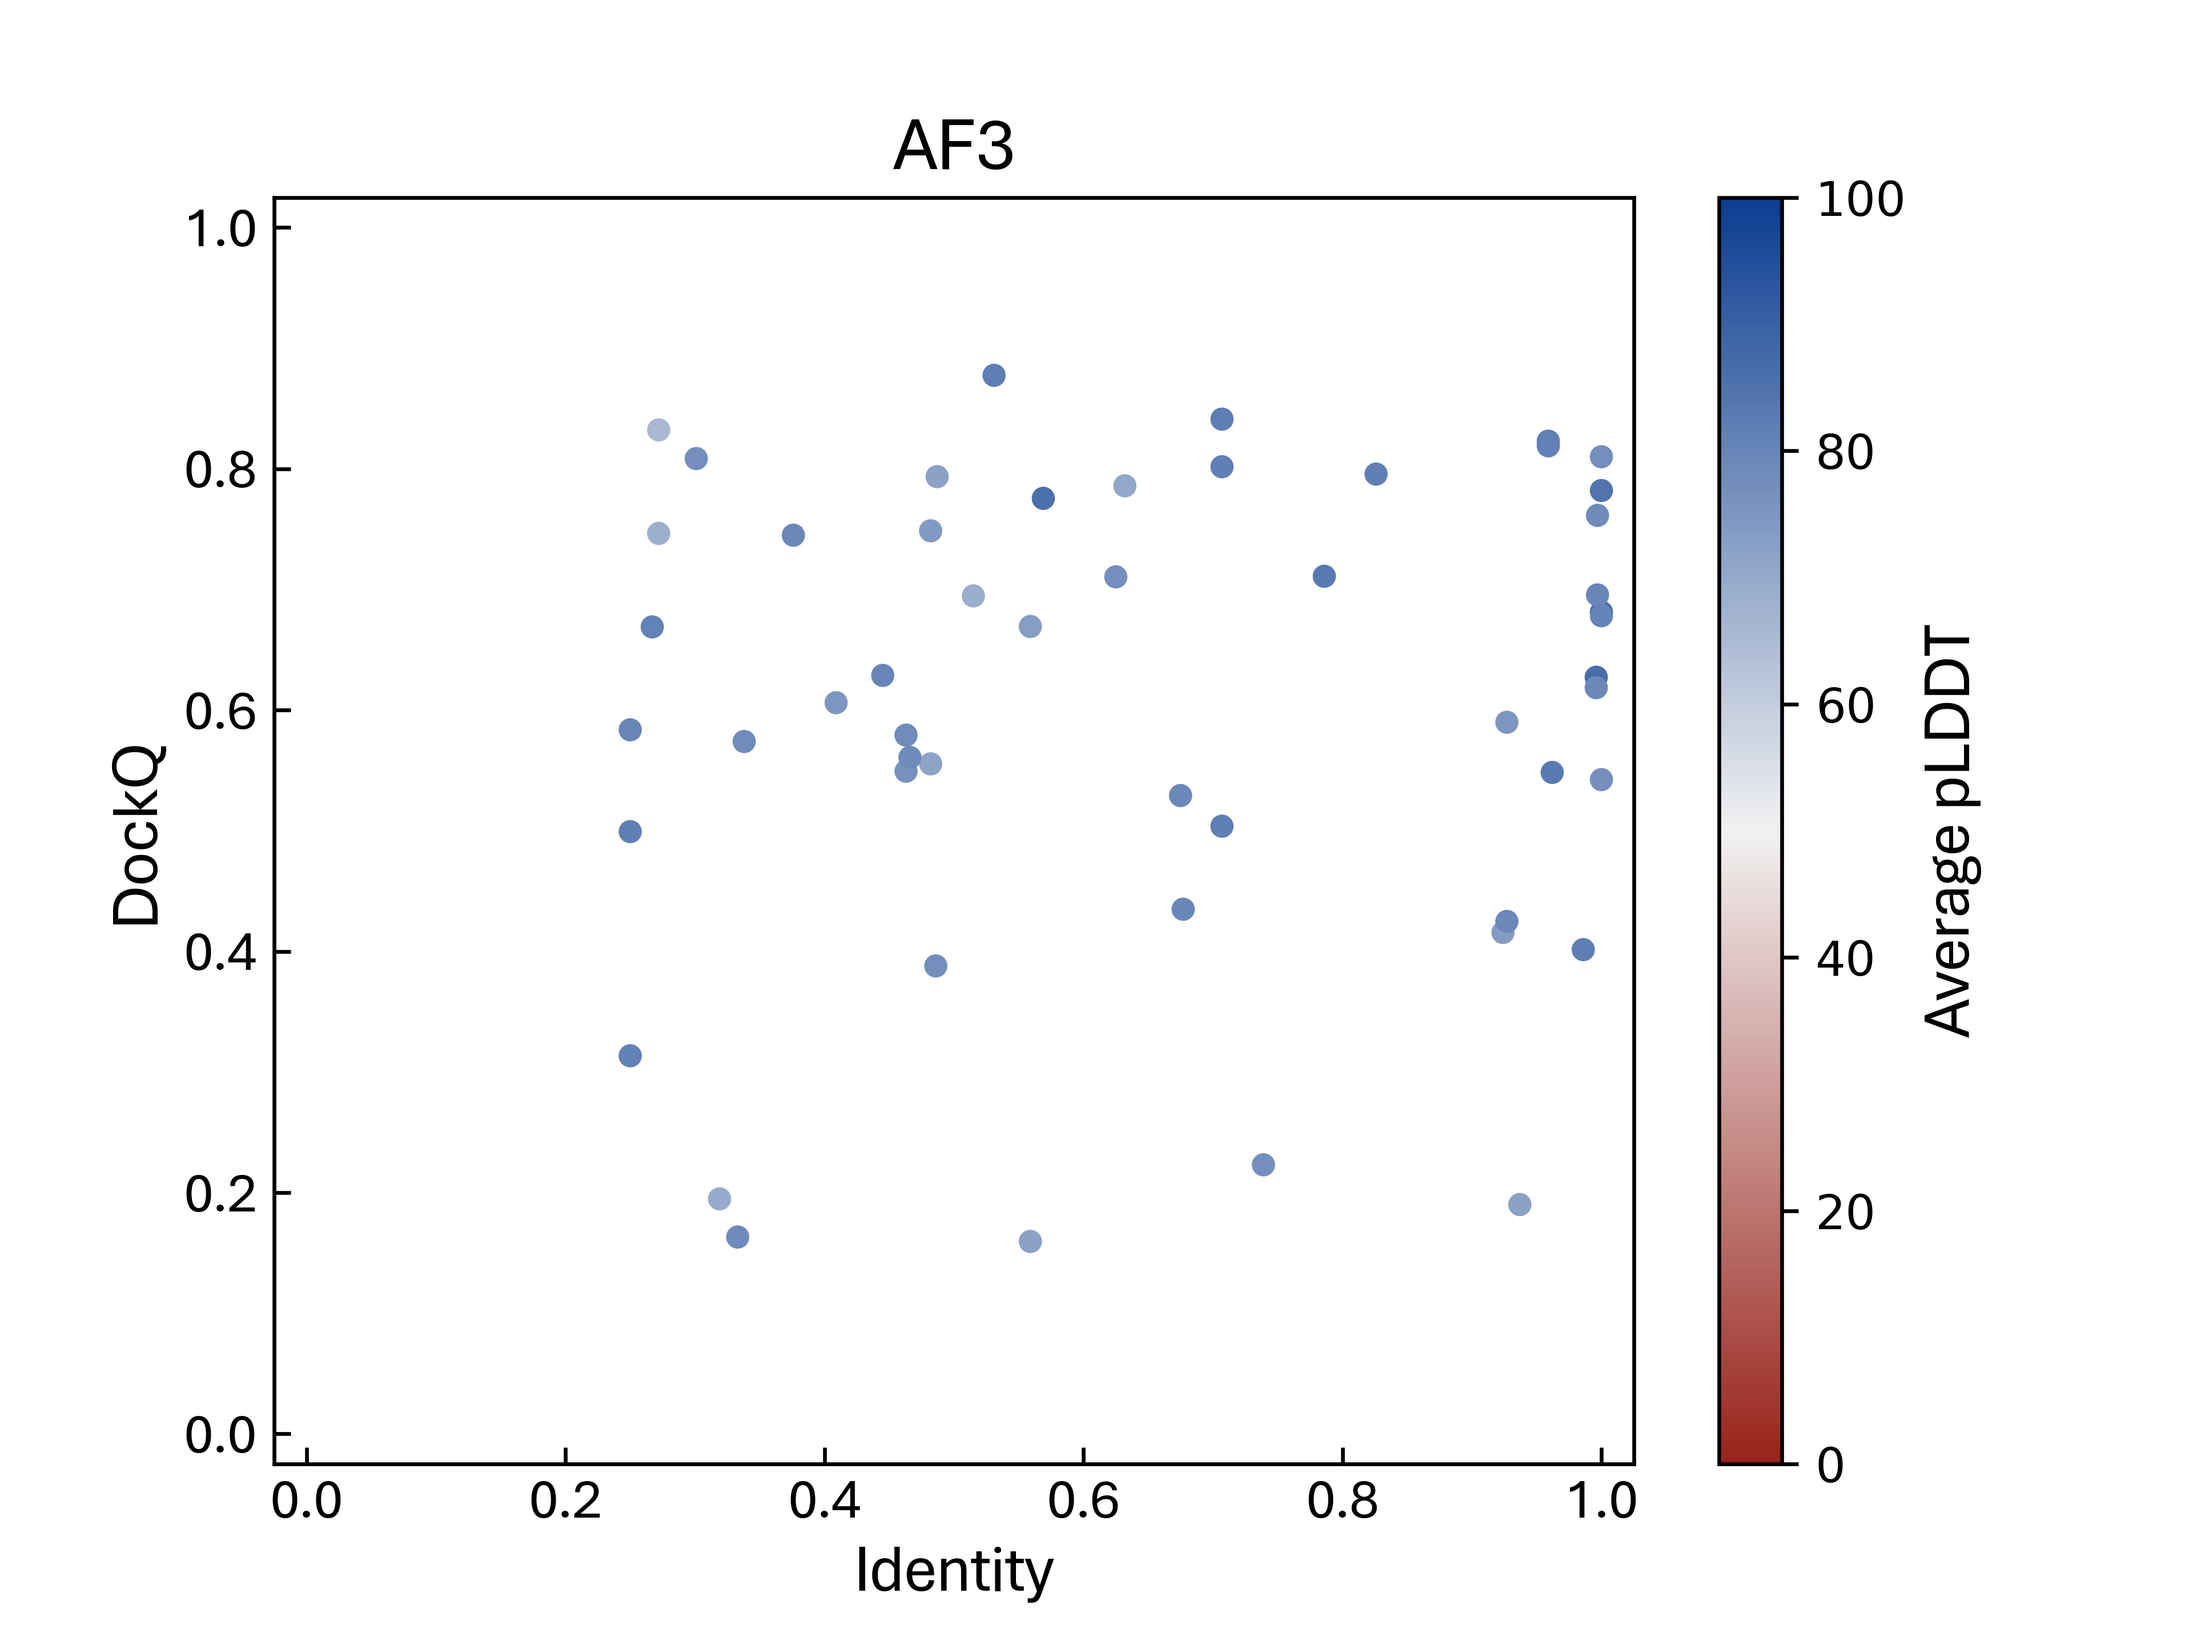
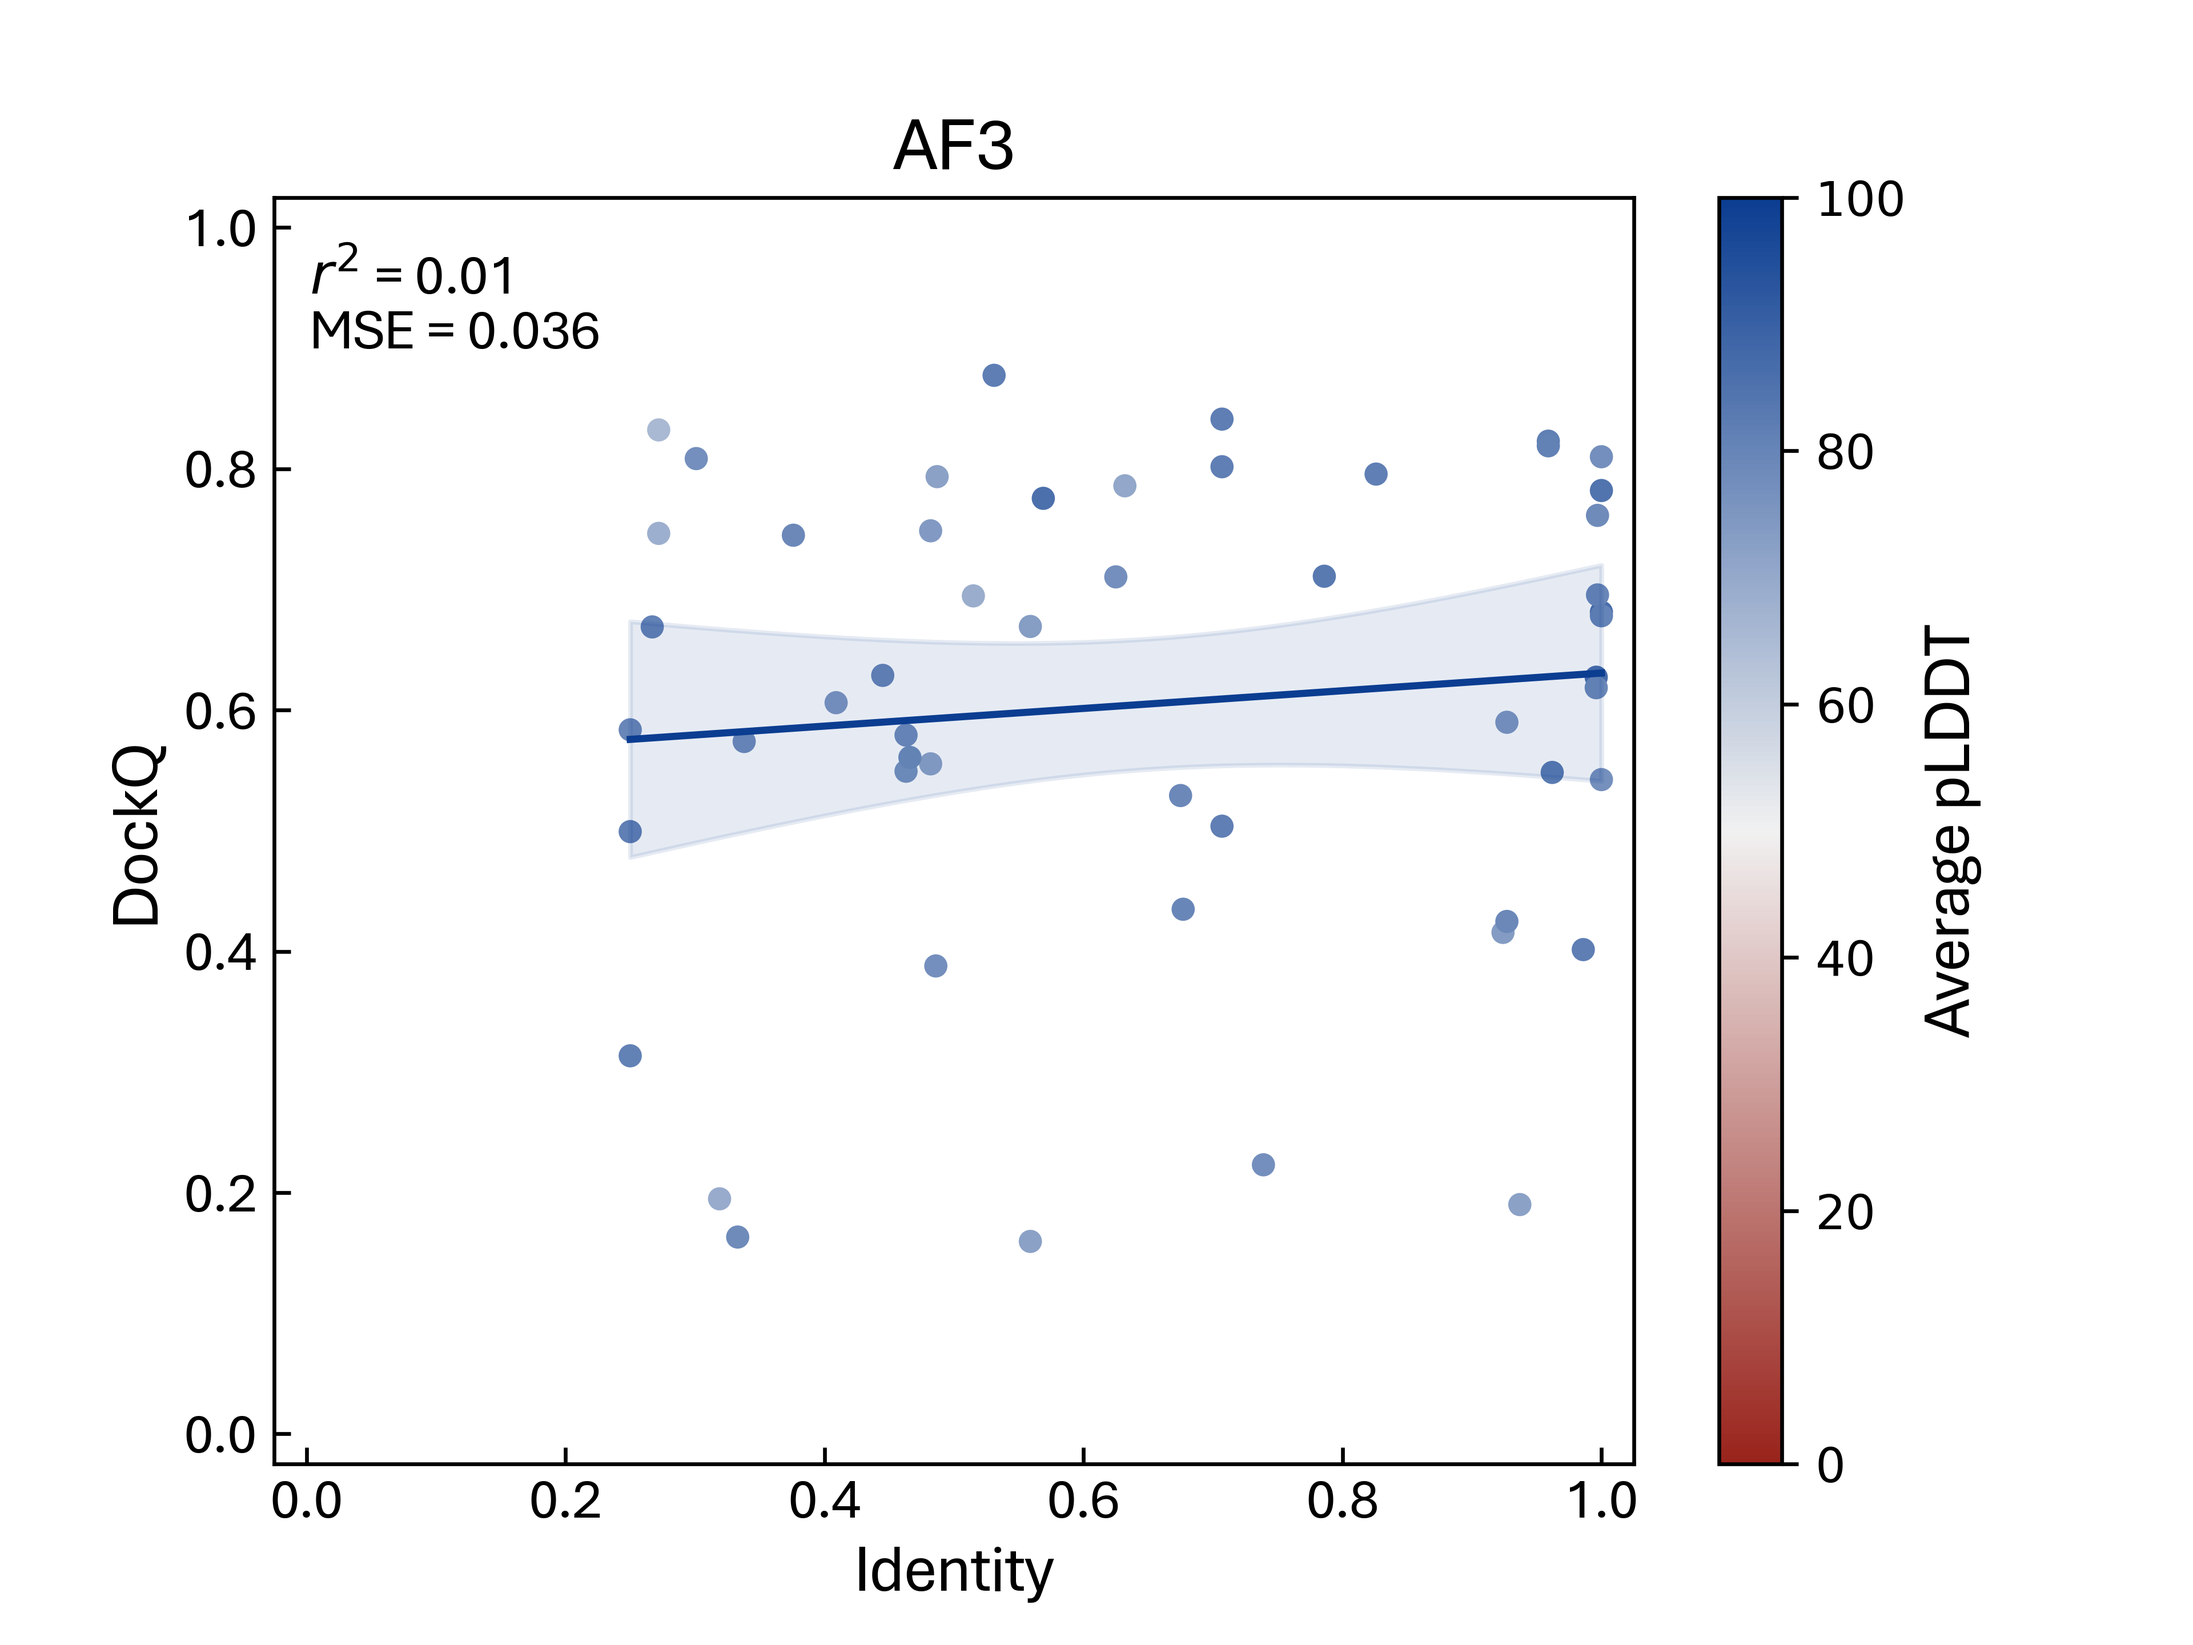
Added confidence intervals to DockQ vs Identity plots

Changed region(s): [[0.2812, 0.3438, 0.75, 0.5312], [0.125, 0.1562, 0.2812, 0.2188]]

diff --git a/structure_benchmark_data/get_mmseqs2_evalue.py b/structure_benchmark_data/get_mmseqs2_evalue.py
@@ -6,6 +6,10 @@ import seaborn as sns
 import matplotlib.font_manager as fm
 import matplotlib.colors as mcolors
 from matplotlib.colors import LinearSegmentedColormap
+from scipy import stats
+import numpy as np
+from sklearn.metrics import r2_score 
+
 
 # Get the top-level directory
 top_level_dir = os.path.abspath(os.path.join(os.path.dirname(__file__), '..'))
@@ -82,13 +86,16 @@ def calculate_average_plddt(pdb_file_path):
         return None
 
 
-def identity_vs_dockq_plot(model, dockq_path, training_struct_df, plot_path="./plots"):
+def identity_vs_dockq_plot(model, dockq_path, training_struct_df, plot_path=""):
     data = pd.read_csv(dockq_path)
     data = data[data['model'] == model]
     data = data.merge(training_struct_df, left_on='pdb', right_on='pdb', how='left')
 
     # Get the top-level directory
     repo_dir = os.path.abspath(os.path.join(os.path.dirname(__file__), '..'))
+
+    if plot_path == "":
+        plot_path = f"{repo_dir}/structure_benchmark_data/plots"
 
     # Get average pLDDT scores for predictions
     for pdb in data['pdb']:
@@ -120,6 +127,26 @@ def identity_vs_dockq_plot(model, dockq_path, training_struct_df, plot_path="./p
     font_path = f'{repo_dir}/Aptos.ttf'  
     font_prop = fm.FontProperties(fname=font_path)
 
+    # Calculate the linear regression line and 95% confidence interval
+    slope, intercept = np.polyfit(data[x], data[y], 1)
+    y_model = np.polyval([slope, intercept], data[x])
+    x_mean = np.mean(data[x])
+    y_mean = np.mean(data[y])
+    n = data[x].size
+    m = 2
+    dof = n - m
+    t = stats.t.ppf(0.975, dof)
+    residual = data[y] - y_model
+    std_error = (np.sum(residual**2) / dof)**.5   # Standard deviation of the error
+    numerator = np.sum((data[x] - x_mean)*(data[y] - y_mean))
+    denominator = ( np.sum((data[x] - x_mean)**2) * np.sum((data[y] - y_mean)**2) )**.5
+    correlation_coef = numerator / denominator
+    r2 = correlation_coef**2
+    MSE = 1/n * np.sum( (data[y] - y_model)**2 )
+    x_line = np.linspace(np.min(data[x]), np.max(data[x]), 100)
+    y_line = np.polyval([slope, intercept], x_line)
+    ci = t * std_error * (1/n + (x_line - x_mean)**2 / np.sum((data[x] - x_mean)**2))**.5
+
     # Create new figure
     fig, ax = plt.subplots()
 
@@ -128,6 +155,9 @@ def identity_vs_dockq_plot(model, dockq_path, training_struct_df, plot_path="./p
 
     # Make the scatterplot
     sc = ax.scatter(x=data[x], y=data[y], c=data['average_plddt'], cmap=get_good_bad_cmap(), norm=norm, s=15)
+    ax.plot(x_line, y_line, color = COLOR["Receptor"])
+    ax.fill_between(x_line, y_line + ci, y_line - ci, color = COLOR["Receptor"], label = '95% confidence interval', alpha = 0.1)
+    ax.text(0.0025, 0.90, '$r^2$ = ' + str(np.round(r2,3)) + '\nMSE = ' + str(np.round(MSE,3)), font_properties=font_prop, fontsize=12)
 
     # Add colorbar
     cbar = plt.colorbar(sc, ax=ax, orientation='vertical')
@@ -136,6 +166,10 @@ def identity_vs_dockq_plot(model, dockq_path, training_struct_df, plot_path="./p
     # Optionally, set custom ticks and labels for the colorbar
     cbar.set_ticks([0, 20, 40, 60, 80, 100])  # Customize the ticks if needed
     cbar.set_ticklabels([0, 20, 40, 60, 80, 100])  # Customize the tick labels if needed
+
+    # Update fonts and labels
+    plt.xlabel(x, fontproperties=font_prop, fontsize=14)
+    plt.ylabel(y, fontproperties=font_prop, fontsize=14)
 
     # Update fonts and labels
     plt.xlabel(x, fontproperties=font_prop, fontsize=14)
@@ -163,16 +197,20 @@ def identity_vs_dockq_plot(model, dockq_path, training_struct_df, plot_path="./p
 
 
 if __name__ == "__main__":
+
+    # Get the file directory
+    file_dir = os.path.dirname(__file__)
+
     # Input paths to the search results
-    rfaa_input_path = "/projects/ilfgrid/people/pqh443/rfaa_training_db/search_results"
-    af_input_path="/projects/ilfgrid/people/pqh443/alphafold_training_db/search_results"
+    rfaa_input_path = f"{file_dir}/mmseqs2_results/RFAA/search_results"
+    af_input_path=f"{file_dir}/mmseqs2_results/AF/search_results"
 
     # Get the closest training structures
     af_training_struct = get_closest_training_structures(af_input_path)
     rfaa_training_struct = get_closest_training_structures(rfaa_input_path)
 
     # Path to the DockQ results file
-    dockq_path = "./DockQ_results.csv"
+    dockq_path = f"{file_dir}/DockQ_results.csv"
 
     # Get only AF2, AF3 and RFAA models
     input_models = ['AF2', 'AF2_no_templates', 'AF3', 'RFAA', 'RFAA_no_templates']
